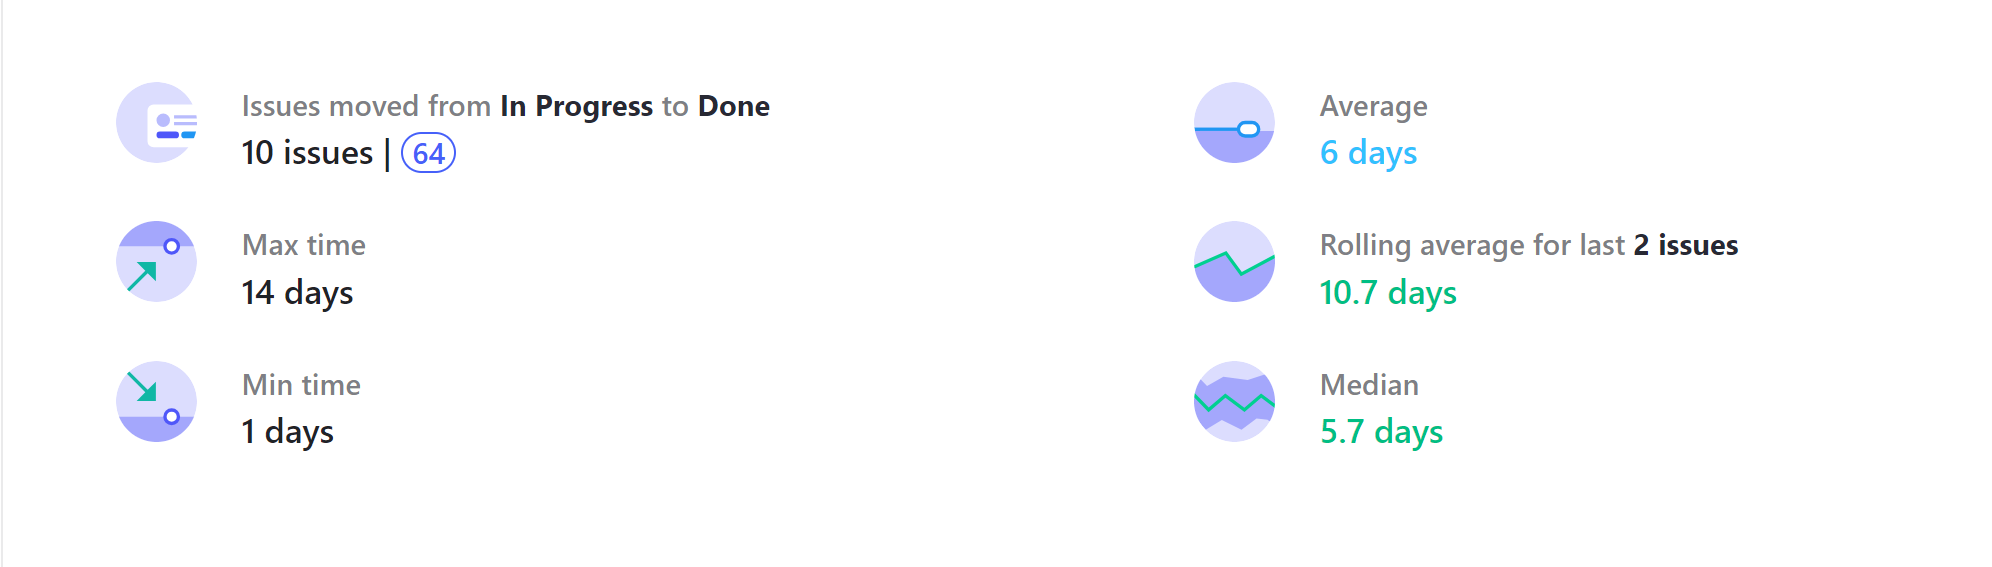
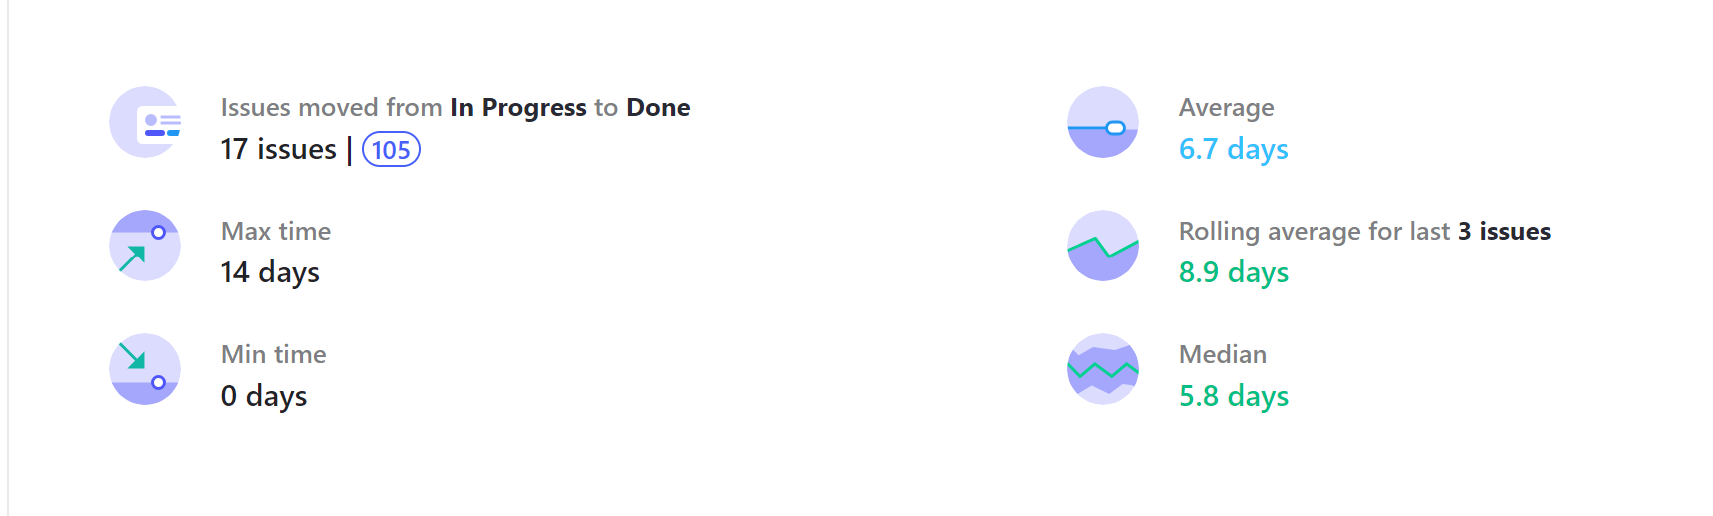
docs: finalización de redacción de informe técnico
Finalización de redacción del informe con la actualización de las gráficas con tareas finalizadas y últimas interpretaciones.

diff --git a/docs/sprint2/Métricas de Proceso Ágil y Recursos.md b/docs/sprint2/Métricas de Proceso Ágil y Recursos.md
@@ -212,7 +212,7 @@ En nuestro caso particular, será el tiempo transcurrido desde que creamos la ta
 La explicación e interpretación de los distintos elementos del gráfico de Control se ha realizado en este apartado para el Sprint 1, con lo cual, no lo repetiremos para este segundo sprint y únicamente pasaremos a incrustar el gráfico y realizar su interpretación.
 
 Gráfico de Control "Lead Time" de Sprint 2
-![Gráfico de Control "Lead Time" de Sprint 2 del proyecto](/docs/static/Sp2_LeadTime_Control_Chart_6Mar31Mar.png)
+![Gráfico de Control "Lead Time" de Sprint 2 del proyecto](/docs/static/Sp2_LeadTime_Control_Chart_6Mar3Abr.png)
 Métricas y estadísticas del gráfico de Control "Lead Time" de Sprint 2
 ![Estadísticas de Gráfico de Control "Lead Time" de Sprint 2 del proyecto](/docs/static/Sp2_LeadTime_Control_Chart_Statistics.png)
 Métricas del gráfico de Control "Lead Time" de Sprint 2: tareas Completadas y Tiempo de finalización
@@ -229,7 +229,7 @@ El "Cycle Time" es otra métrica usada en la gestión de proyectos y desarrollos
 Para el caso de nuestro proyecto será el tiempo transcurrido desde que colocamos la issue en el pipeline `InProgress` hasta que la colocamos en `Done`, o `Close`  tras la indicación del Product Owner.
 
 Gráfico de Control "Cycle Time" de Sprint 2
-![Gráfico de Control "Cycle Time" de Sprint 2 del proyecto](/docs/static/Sp2_CycleTime_Control_Chart_6Mar31Mar.png)
+![Gráfico de Control "Cycle Time" de Sprint 2 del proyecto](/docs/static/Sp2_CycleTime_Control_Chart_6Mar3Abr.png)
 Métricas y estadísticas de Gráfico de Control "Cycle Time" de Sprint 2
 ![Estadísticas de Gráfico de Control "Cycle Time" de Sprint 2 del proyecto](/docs/static/Sp2_CycleTime_Control_Chart_Statistics.png)
 Métricas del gráfico de Control "Cycle Time" de Sprint 2: tareas Completadas y Tiempo de finalización
